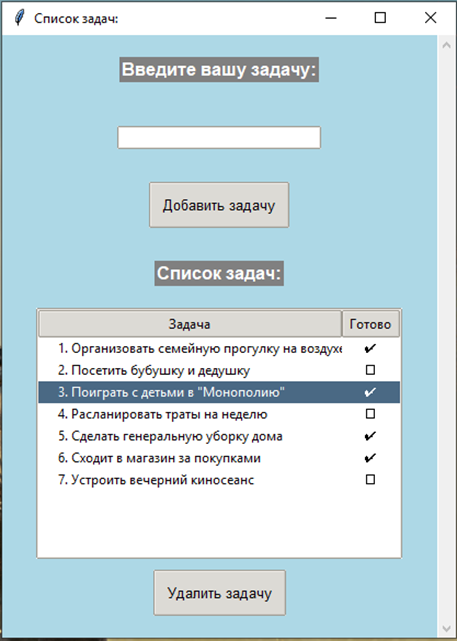
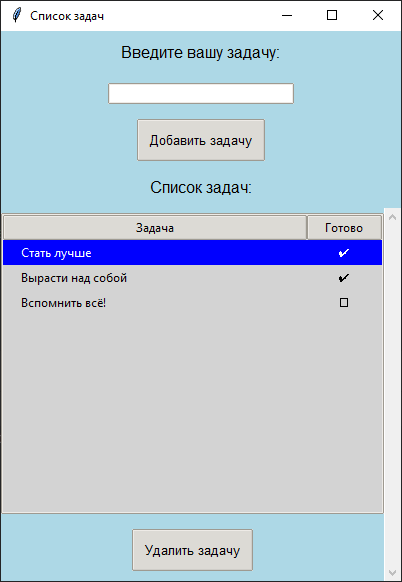
кончательно убрал .idea из отслеживания

diff --git a/1_task_man2.py b/1_task_man2.py
@@ -1,62 +1,108 @@
 import tkinter as tk
-from tkinter import ttk
+from tkinter import ttk, messagebox
+import json
 
+# Константы
+UNCHECKED = "☐"
+CHECKED = "✔"
+MAX_TASKS = 50
+
+# Функции
 def add_task():
-    task = task_entry.get()
-    if task:
-        task_id = task_tree.insert("", tk.END, text=task, values=("☐",))
-        task_entry.delete(0, tk.END)
+    """Добавление новой задачи в список."""
+    if len(task_tree.get_children()) >= MAX_TASKS:
+        messagebox.showerror("Ошибка", "Превышено максимальное количество задач!")
+        return
+    task = task_entry.get().strip()  # Убираем лишние пробелы
+    if not task:
+        messagebox.showwarning("Ошибка", "Нельзя добавить пустую задачу!")
+        return
+    existing_tasks = [task_tree.item(item, "text") for item in task_tree.get_children()]
+    if task in existing_tasks:
+        messagebox.showinfo("Информация", "Такая задача уже существует!")
+        return
+    task_tree.insert("", tk.END, text=task, values=(UNCHECKED,))
+    task_entry.delete(0, tk.END)
 
 def check_task(event):
+    """Отметка задачи как выполненной или невыполненной."""
     item = task_tree.selection()[0]
     checked = task_tree.item(item, "values")[0]
-    if checked == "☐":
-        task_tree.item(item, values=("✔",))
-    else:
-        task_tree.item(item, values=("☐",))
+    task_tree.item(item, values=(CHECKED if checked == UNCHECKED else UNCHECKED,))
 
 def delete_task():
-    selected_item = task_tree.selection()
-    for item in selected_item:
+    """Удаление выбранной задачи."""
+    selected_items = task_tree.selection()
+    if not selected_items:
+        messagebox.showwarning("Удаление задачи", "Выберите задачу для удаления!")
+        return
+    for item in selected_items:
         task_tree.delete(item)
 
+def save_tasks():
+    """Сохранение задач в файл."""
+    tasks = [{"text": task_tree.item(item, "text"), "checked": task_tree.item(item, "values")[0]}
+             for item in task_tree.get_children()]
+    with open("tasks.json", "w", encoding="utf-8") as f:
+        json.dump(tasks, f, ensure_ascii=False, indent=4)
+
+def load_tasks():
+    """Загрузка задач из файла."""
+    try:
+        with open("tasks.json", "r", encoding="utf-8") as f:
+            tasks = json.load(f)
+        for task in tasks:
+            task_tree.insert("", tk.END, text=task["text"], values=(task["checked"],))
+    except FileNotFoundError:
+        pass
+
+# Интерфейс
 root = tk.Tk()
-root.title("Список задач:")
+root.title("Список задач")
 root.geometry("400x550+800+300")
 root.configure(bg="lightblue")
 
+# Стили
 style = ttk.Style()
 style.theme_use("clam")
-style.configure("TLabel", background="gray", foreground="white", font=("Arial", 12))
+style.configure("TLabel", background="lightblue", foreground="black", font=("Arial", 12))
 style.configure("TButton", padding=10, font=("Arial", 10))
+style.configure("Treeview", background="lightgray", foreground="black", rowheight=25, fieldbackground="lightgray")
+style.map("Treeview", background=[("selected", "blue")])
 
-scrollbar = tk.Scrollbar(root)
-scrollbar.pack(side=tk.RIGHT, fill=tk.Y, expand=False) # здесь мы ставим полоску прокрутки expand = False по умолчанию
-
-text1 = ttk.Label(root, text="Введите вашу задачу:", style="TLabel", font="none 12 bold")
-text1.pack(pady=20, padx=5)
+# Виджеты
+text1 = ttk.Label(root, text="Введите вашу задачу:")
+text1.pack(pady=10)
 
 task_entry = ttk.Entry(root, width=30)
-task_entry.pack(pady=20)
+task_entry.pack(pady=10)
 
 add_task_button = ttk.Button(root, text="Добавить задачу", command=add_task)
-add_task_button.pack(pady=10)
+add_task_button.pack(pady=5)
 
-text2 = ttk.Label(root, text="Список задач:", style="TLabel", font="none 12 bold")
-text2.pack(pady=20)
+text2 = ttk.Label(root, text="Список задач:")
+text2.pack(pady=10)
+
+scrollbar = tk.Scrollbar(root)
+scrollbar.pack(side=tk.RIGHT, fill=tk.Y)
 
 task_tree = ttk.Treeview(root, columns=("Готово",), displaycolumns=("Готово",))
 task_tree.heading("#0", text="Задача")
 task_tree.heading("Готово", text="Готово")
 task_tree.column("#0", width=280)
-task_tree.column("Готово", width=50, anchor='center')
-task_tree.pack()
-task_tree.bind("<Double-1>", check_task)
+task_tree.column("Готово", width=50, anchor="center")
+task_tree.pack(pady=5, fill=tk.BOTH, expand=True)
 
+task_tree.bind("<Double-1>", check_task)
 task_tree.config(yscrollcommand=scrollbar.set)
 scrollbar.config(command=task_tree.yview)
 
 delete_button = ttk.Button(root, text="Удалить задачу", command=delete_task)
 delete_button.pack(pady=10)
 
+# Загрузка и сохранение задач при закрытии
+root.protocol("WM_DELETE_WINDOW", lambda: (save_tasks(), root.destroy()))
+load_tasks()
+
+# Запуск программы
 root.mainloop()
